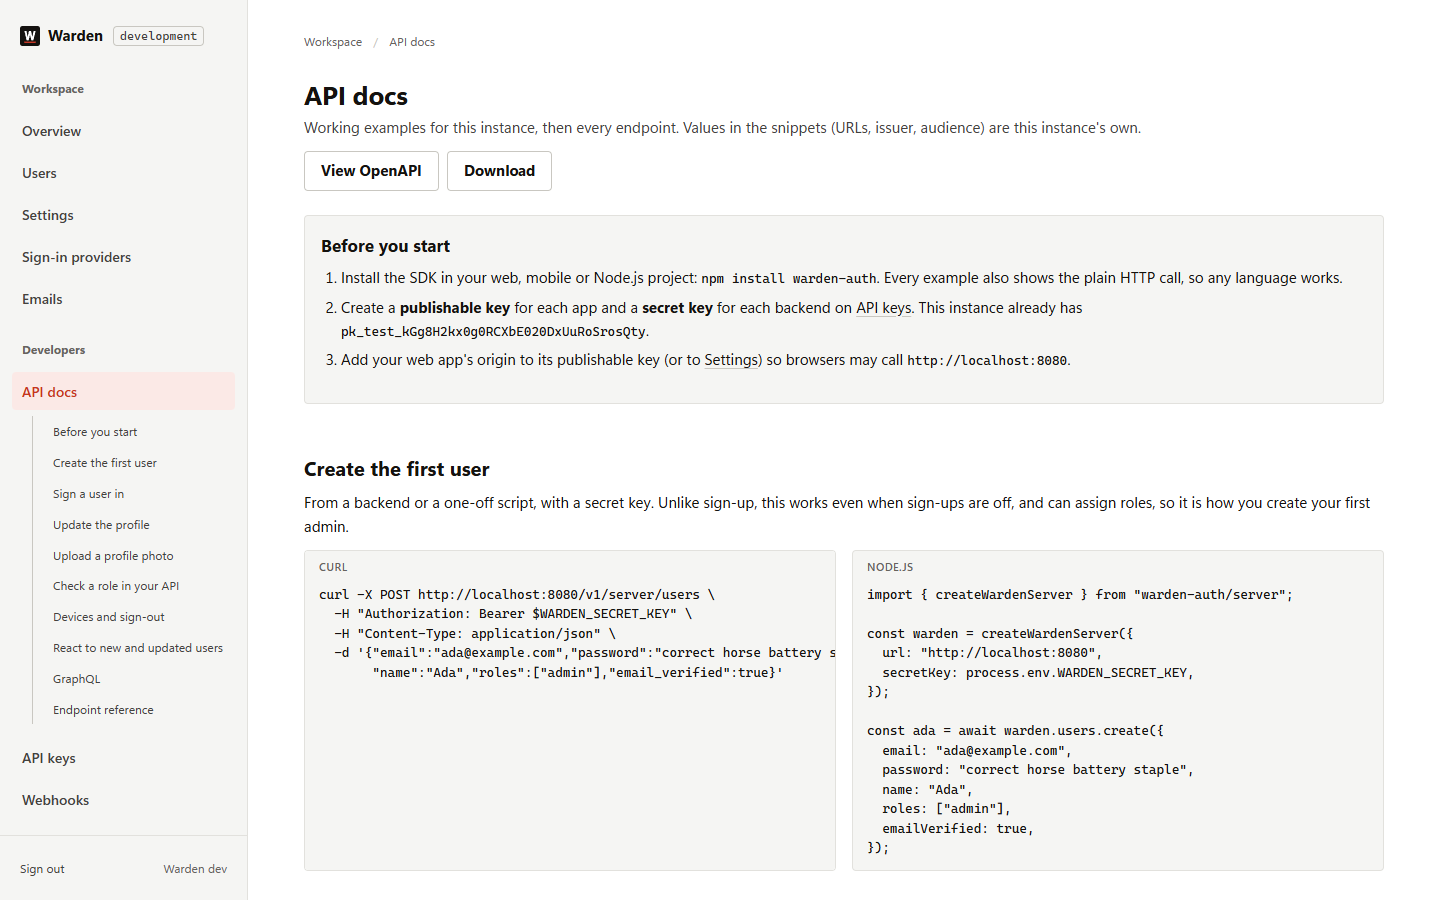
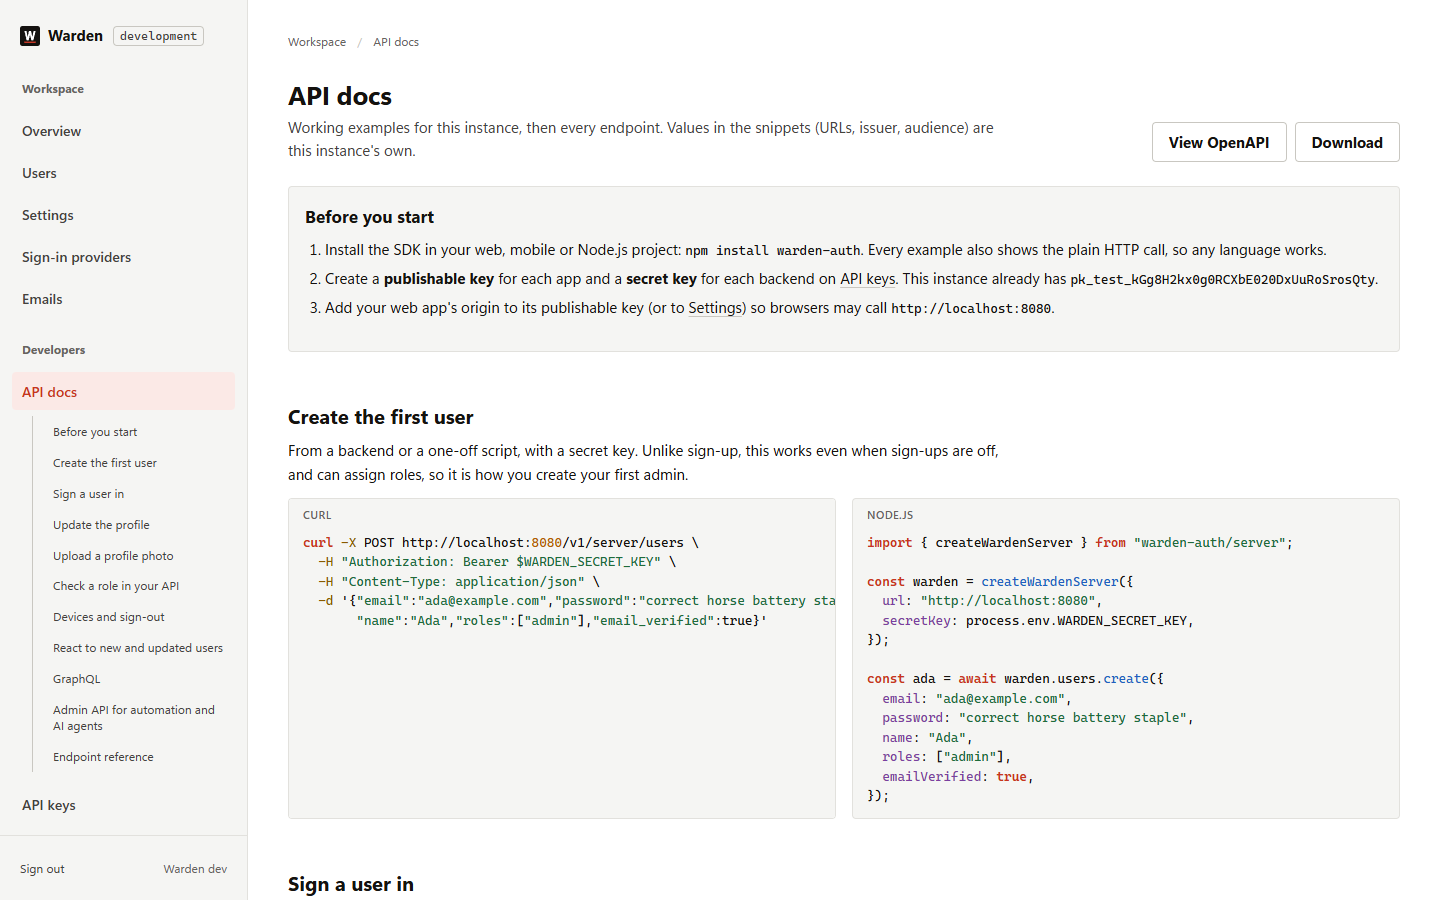
Refresh screenshots: setup flow, docs, keys, access tokens, emails

diff --git a/README.md b/README.md
@@ -67,7 +67,9 @@ Requirements: Docker Desktop (or Docker Engine with Compose v2). Go 1.26+ only f
 
 **Guided:** `go run ./cmd/warden setup` (or `make setup`) prints a link to a local page that walks you through each connection, tests it, generates secrets and writes `.env`. Then `docker compose up -d --build`.
 
-<p align="center"><img src="docs/images/admin-setup-onboarding.png" alt="Setup onboarding: one connection per step, tested before you continue" width="720"></p>
+| 1. Welcome | 2. Each connection tested | 3. Review, then write `.env` |
+| --- | --- | --- |
+| ![Setup welcome](docs/images/setup-welcome.png) | ![Setup step: PostgreSQL connected](docs/images/admin-setup-onboarding.png) | ![Setup review](docs/images/setup-review.png) |
 
 **Manual:**
 
@@ -148,6 +150,8 @@ The admin UI is how you configure an instance: switch features and providers on 
 | ![API docs with working examples](docs/images/admin-docs.png) | ![Webhooks](docs/images/admin-webhooks.png) |
 | **API keys** | **Settings** |
 | ![API keys](docs/images/admin-api-keys.png) | ![Settings](docs/images/admin-settings.png) |
+| **Access tokens (AI agents)** | **Emails** |
+| ![Access tokens](docs/images/admin-access-tokens.png) | ![Email editor](docs/images/admin-emails.png) |
 
 - **Settings**: sign-ups, email verification, breached password check, password length, lockout, app name, email links, redirect URIs, CORS origins, publishable key enforcement, default email language, security notifications, admin IP allowlist. Applied to every replica within 15 seconds.
 - **Sign-in providers**: enable Google, Apple, GitHub or Discord and paste their credentials. The page shows the exact callback URL to register with each provider. Secrets are encrypted at rest and never displayed again.
